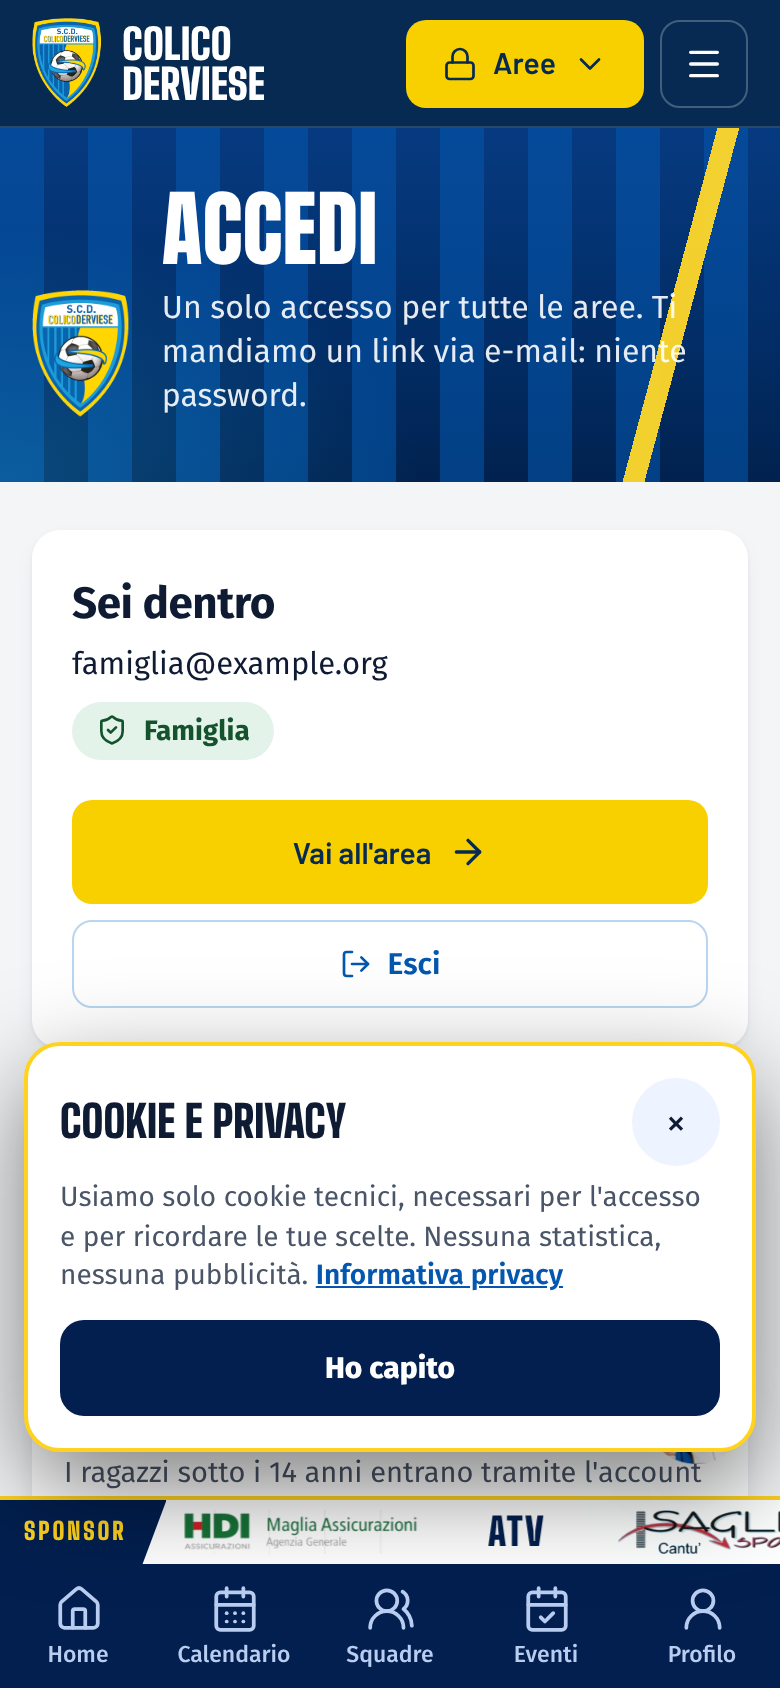
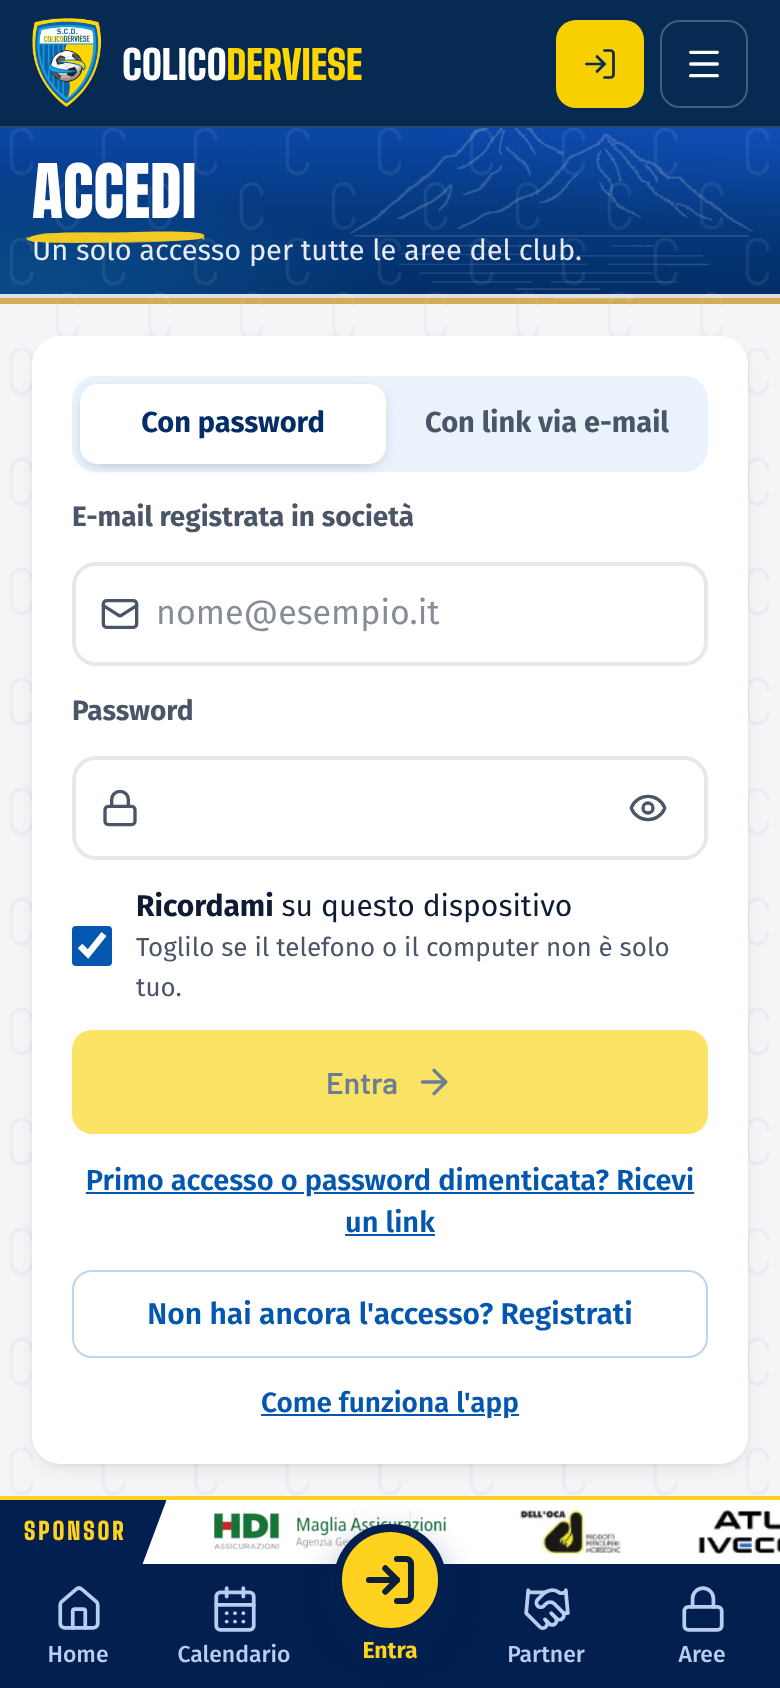
docs(presentation): complete L4 launch screenshots with match sheet; shared fixtures; footer targets back to 44 px
- scripts/presentation-shots.mjs: 10 flows x 390x844/1440x900 into docs/presentation,
  cookie answer preset, section scrolled into view, fails on open errors or horizontal scroll.
- New mister-distinta-{m,d} and mister-convocazione-d; all other flows recaptured
  (accedi now e-mail + password as with the club database connected).
- Invented-name fixtures moved to scripts/lib/private-fixtures.mjs, shared with the a11y audit.
- L2 regression: footer e-mail, "Eventi" and "Privacy" below 44 px -> min-h-11/min-w-11, guarded by test.
- RELEASE2_LOG (L4 row + entry), LAUNCH_QUALITY (L2 note), presentation README.

Claude-Session: https://claude.ai/code/session_01Xy61FEkkKDDzCnqQvYJjAK

diff --git a/apps/superapp/src/components/SiteChrome.tsx b/apps/superapp/src/components/SiteChrome.tsx
@@ -685,7 +685,7 @@ export function SiteFooter() {
               <p className="m-0">
                 <a
                   href={`mailto:${CLUB_PROFILE.contacts.email}`}
-                  className="scd-focus select-text underline decoration-white/30 underline-offset-4 hover:decoration-white"
+                  className="scd-focus inline-flex min-h-11 select-text items-center underline decoration-white/30 underline-offset-4 hover:decoration-white"
                 >
                   {CLUB_PROFILE.contacts.email}
                 </a>
@@ -704,7 +704,7 @@ export function SiteFooter() {
                   <li key={n.to + n.label}>
                     <Link
                       to={n.to}
-                      className="scd-focus inline-flex min-h-11 items-center text-[14px] text-white/85 hover:text-white"
+                      className="scd-focus inline-flex min-h-11 min-w-11 items-center text-[14px] text-white/85 hover:text-white"
                     >
                       {n.label}
                     </Link>
@@ -747,7 +747,7 @@ export function SiteFooter() {
             <span className="flex flex-wrap gap-x-5">
               <a
                 href="/privacy"
-                className="scd-focus inline-flex min-h-11 items-center underline decoration-white/30 underline-offset-4 hover:text-white"
+                className="scd-focus inline-flex min-h-11 min-w-11 items-center underline decoration-white/30 underline-offset-4 hover:text-white"
               >
                 Privacy
               </a>

diff --git a/apps/superapp/src/lib/touch-targets.test.ts b/apps/superapp/src/lib/touch-targets.test.ts
@@ -36,6 +36,15 @@ describe("touch targets of audited controls", () => {
     expect(read("../components/SiteChrome.tsx")).not.toMatch(/aria-controls="sa-menu"/);
   });
 
+  it("footer links stay at least 44 px tall and wide (short labels such as 'Eventi', 'Privacy', the club e-mail)", () => {
+    const src = read("../components/SiteChrome.tsx");
+    const footer = src.slice(src.indexOf('data-testid="site-footer"'));
+    const mail = footer.match(/href=\{`mailto:[^`]*`\}\s*className="([^"]*)"/);
+    expect(mail?.[1]).toMatch(/\binline-flex\b.*\bmin-h-11\b/);
+    expect(footer).toMatch(/className="scd-focus inline-flex min-h-11 min-w-11 items-center text-\[14px\]/);
+    expect(footer).toMatch(/href="\/privacy"\s*className="scd-focus inline-flex min-h-11 min-w-11 /);
+  });
+
   it("the 'Presa visione' green keeps AA contrast with white text", () => {
     const src = read("../routes/famiglia.tsx");
     expect(src).not.toContain("#128a2e");

diff --git a/apps/superapp/docs/presentation/README.md b/apps/superapp/docs/presentation/README.md
@@ -1,17 +1,31 @@
-# Schermate per la presentazione ufficiale (L4 · 2026-10-12)
+# Schermate per la presentazione ufficiale (L4)
 
-Catturate dalla build di produzione locale con Playwright (390×844 telefono `-m`, 1440×900 desktop `-d`).
-Le pagine riservate usano dati di prova inventati (nomi non reali, nessun minore reale); le pagine pubbliche
-mostrano il calendario ufficiale della stagione 2026/27.
+Catturate dalla build di produzione locale con `scripts/presentation-shots.mjs` (Playwright + Chromium preinstallato):
+`-m` telefono 390×844, `-d` desktop 1440×900, prima schermata del flusso (o della sezione indicata).
+Ultimo aggiornamento: **13/10/2026** (tutte tranne `persone-*`, del 12/10/2026).
+
+Le pagine riservate usano i dati di prova inventati di `scripts/lib/private-fixtures.mjs`: nomi di fantasia, solo squadre
+di adulti (Juniores U19, Prima Squadra), nessuna persona reale, nessun minore, nessuna lettura o scrittura sul database.
+Le pagine pubbliche mostrano il calendario ufficiale 2026/27 della copia nel repository.
 
 | File | Pagina | Pubblico |
 |---|---|---|
-| home-* | Home "Questa settimana" con le gare del weekend | tutti |
+| home-* | Home "Si gioca questa settimana" con il prossimo calcio d'inizio | tutti |
 | installa-* | /installa: indirizzo, QR, istruzioni iPhone/Android | tutti |
-| guida-* | /guida: come funziona per famiglie, mister, segreteria | tutti |
-| accedi-* | Accesso con e-mail, senza password | tutti |
-| calendario-*, squadre-* | Calendario e squadre | tutti |
-| famiglia-* | La mia famiglia: convocazioni con "Ci sarò / Non ci sarò" | famiglie |
-| mister-convocazione-m | Convocazione anche da altre annate | mister |
-| certificati-* | Registro certificati medici | segreteria |
-| persone-*, persone-assegna-m | Persone, conferma tesseramento e assegnazione squadra | segreteria |
+| guida-* | /guida: come funziona per tifosi, famiglie, mister, segreteria | tutti |
+| accedi-* | Accesso con e-mail e password ("Ricordami") o link via e-mail, come appare a database collegato | tutti |
+| calendario-*, squadre-* | Calendario settimanale e squadre (riservate ai soci) | tutti |
+| famiglia-* | La mia famiglia: convocazioni con "Presa visione" e "Segnala un impedimento" | famiglie |
+| mister-convocazione-* | Mister: prossima gara, stato delle risposte, rosa con i convocati | mister |
+| mister-distinta-* | Mister: distinta di gara (titolari/riserve, capitano C e vice VC, numeri di maglia) | mister |
+| certificati-* | Segreteria: registro certificati medici | segreteria |
+| persone-*, persone-assegna-m | Persone, conferma tesseramento e assegnazione squadra (12/10) | segreteria |
+
+Note per chi presenta:
+- `installa-*` mostra l'indirizzo della macchina usata per la cattura (`localhost`): sul dominio definitivo
+  (app.colicoderviese.it, UD-071, DNS da configurare) va ricatturata.
+- Il pulsante "Ci sarò" del 12/10 è diventato "Presa visione" / "Segnala un impedimento" (decide il mister).
+
+Rigenerare: `cd apps/superapp && npm run build && PORT=4173 node .output/server/index.mjs &` poi
+`SHOTS_BASE_URL=http://localhost:4173 node scripts/presentation-shots.mjs` (`SHOTS_ONLY=famiglia,mister-distinta` limita
+i flussi, `SHOTS_OUT=/tmp/x` scrive altrove). Esce con errore se un flusso non si apre o la pagina scorre in orizzontale.

diff --git a/apps/superapp/docs/RELEASE2_LOG.md b/apps/superapp/docs/RELEASE2_LOG.md
@@ -17,6 +17,7 @@ One backlog item per night, finished to a verifiable boundary. Status: `done`, `
 | 5a | Public hall (chi siamo, squadre, official results links, contatti) | done | 8ffd491 | 2026-10-11 |
 | 8 | Impianti follow-ups from benchmark: one request for pitch+rooms+lights, state history (who/when), day view prenotato/disponibile/rilasciato, quadro trainings in pitch capacity check | todo | | |
 | L1 | Launch performance: Lighthouse mobile/desktop on /, /guida, /accedi, /calendario, /squadre; fixes; `docs/LAUNCH_QUALITY.md` | done | see L1 entry | 2026-10-12 |
+| L4 | Presentation screenshots 390×844 / 1440×900 of the main flows, fixture data only, `docs/presentation/` | done | see L4 entry | 2026-10-13 |
 
 ## 2026-10-11 · Item 1 · Foundations · done
 
@@ -383,3 +384,17 @@ prossimi impegni e "ci sarò" in primo piano). Desktop invariato.
 - Badge annate: resa 96 px WebP senza perdita servita al posto dei PNG 512 px (asset.json con `derived_from`), ~2,9 MB → ~163 KB;
   originali invariati. Schermate 390×844 e 1440×900 di /allenamenti e /core/impianti-calendari: badge nitidi, nessuno scorrimento orizzontale.
 - Aperto (Direzione): stato ufficiale dei badge annate (PENDING_VERIFICATION); file vettoriali ufficiali di stemma e sponsor da recuperare.
+
+## L4 — Schermate per la presentazione ufficiale · 2026-10-13
+- Stato: DONE su staging/superapp (SHA nel commit che aggiunge questa voce). Prima cattura il 12/10 (fc5a220, 3b2fc8c) senza voce
+  nel registro e senza distinta: completata oggi.
+- Nuovo `scripts/presentation-shots.mjs`: 10 flussi × 2 formati (390×844, 1440×900) in `docs/presentation/`, risposta cookie
+  "solo tecnici" preimpostata, sezione portata in vista, uscita con errore se un flusso non si apre o scorre in orizzontale.
+- Nuove: `mister-distinta-{m,d}`, `mister-convocazione-d`. Ricatturate: home, installa, guida, accedi (ora e-mail + password
+  "Ricordami", come a database collegato), calendario, squadre, famiglia ("Presa visione"), mister, certificati.
+- Dati di prova spostati in `scripts/lib/private-fixtures.mjs`, condivisi con `scripts/a11y-audit.mjs` (nomi inventati,
+  solo adulti, scritture bloccate); aggiunta la sessione "non entrato a database collegato" per /accedi.
+- Regressione L2 trovata rifacendo l'audit: 3 bersagli sotto 44 px nel piè di pagina (e-mail della società 17 px, "Eventi"
+  39 px, "Privacy" 40 px) → `SiteChrome.tsx` min-h-11/min-w-11, guardia in `touch-targets.test.ts` (9 test). Audit di
+  nuovo a 0 violazioni axe e 0 bersagli piccoli. Suite 977.
+- Aperto: `installa-*` va ricatturata sul dominio definitivo; `persone-*` restano del 12/10 (nessun dato di prova nello script).

diff --git a/apps/superapp/docs/LAUNCH_QUALITY.md b/apps/superapp/docs/LAUNCH_QUALITY.md
@@ -125,6 +125,10 @@ accessibili o ordine dei titoli.
 - Pagine non incluse in questo giro (home, calendario, squadre, impianti): stessi componenti di testata e piè di pagina già
   corretti; vanno aggiunte allo script in un prossimo passaggio.
 
+- 13/10/2026: rifatto l'audit durante L4, 3 bersagli del piè di pagina erano tornati sotto 44 px (e-mail della società,
+  "Eventi", "Privacy"); corretti in `SiteChrome.tsx`, di nuovo 0 violazioni e 0 bersagli piccoli. I dati di prova ora stanno
+  in `scripts/lib/private-fixtures.mjs`.
+
 ### Ripetere la verifica
 `cd apps/superapp && npm run build && PORT=4173 node .output/server/index.mjs &` poi
 `A11Y_BASE_URL=http://localhost:4173 A11Y_OUT=/tmp/a11y node scripts/a11y-audit.mjs` (`A11Y_SHOTS=1` salva le schermate,
